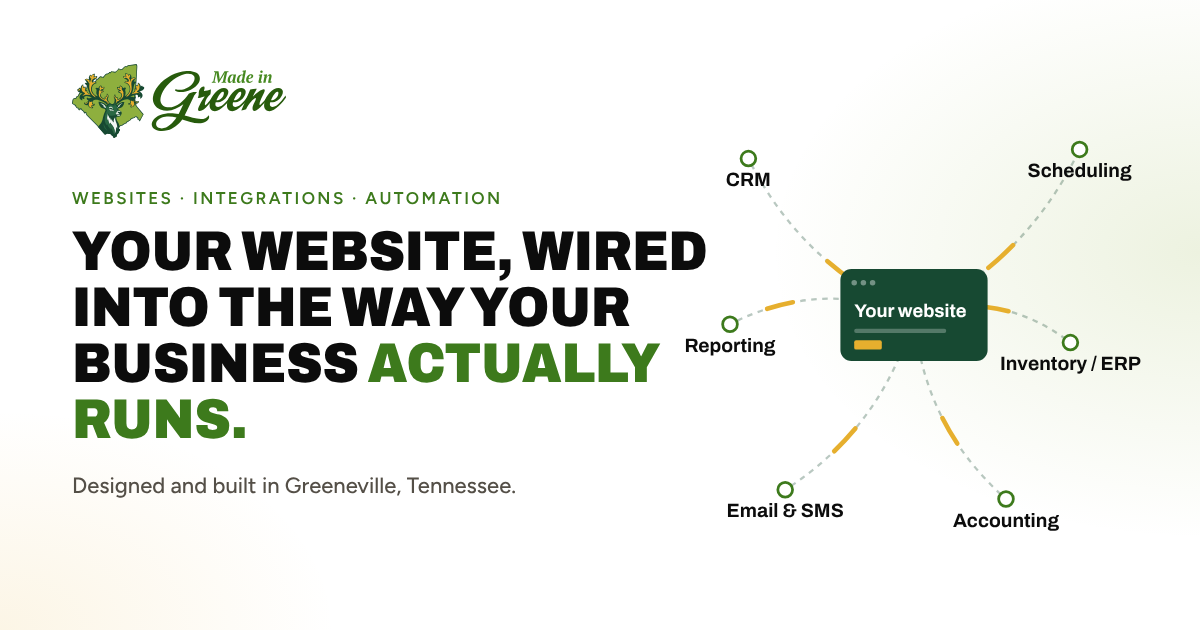
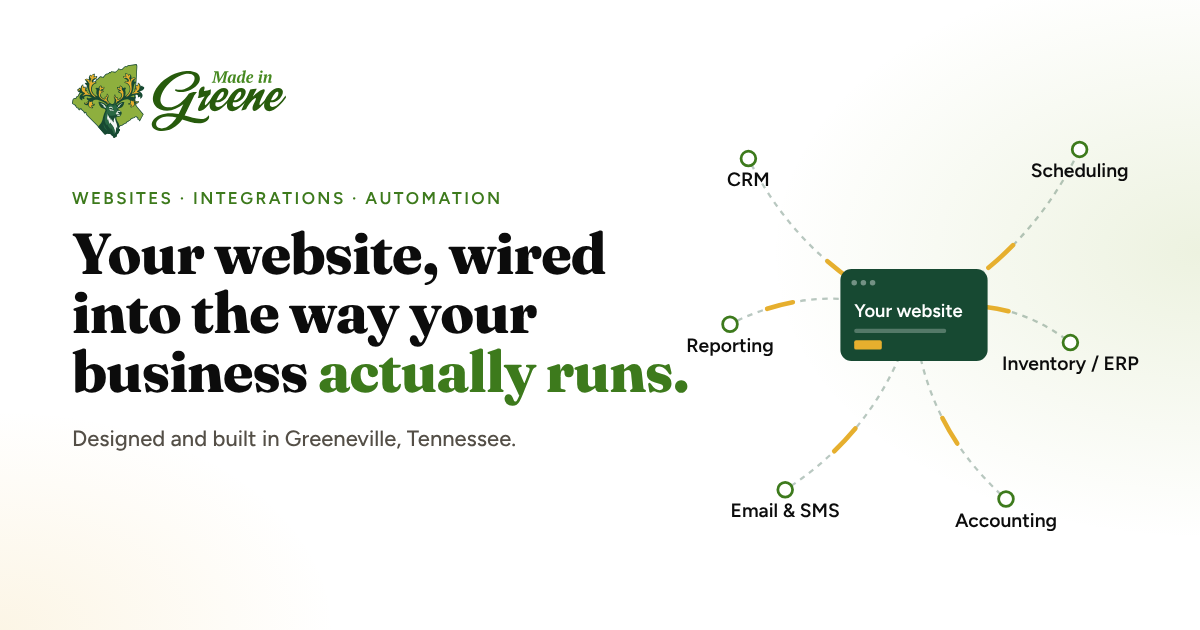
Headings back to the original Fraunces serif; share image redrawn to match
Claude-Session: https://claude.ai/code/session_01Dj9TJocutXaQN5sHRAm8V4

diff --git a/src/styles/global.css b/src/styles/global.css
@@ -34,7 +34,7 @@
   --color-cream: #f7f6f1;
 
   --font-sans: "Figtree", system-ui, -apple-system, sans-serif;
-  --font-display: "Archivo", "Figtree", system-ui, sans-serif;
+  --font-display: "Fraunces", Georgia, serif;
   --font-serif: "Fraunces", "Cormorant Garamond", Georgia, serif;
   --font-accent: "Fraunces", Georgia, serif;
 
@@ -59,12 +59,11 @@ body {
   -moz-osx-font-smoothing: grayscale;
 }
 
-/* Headings: all-caps Archivo, slightly condensed so long headlines still fit. */
+/* Headings: Fraunces, the original serif (Brian, 2026-10-18). */
 h1, h2, h3 {
   font-family: var(--font-display);
-  font-stretch: 90%;
-  text-transform: uppercase;
-  letter-spacing: -0.005em;
+  font-optical-sizing: auto;
+  letter-spacing: -0.015em;
 }
 
 /* Serif headline in the original Fraunces style (small-business page). */
